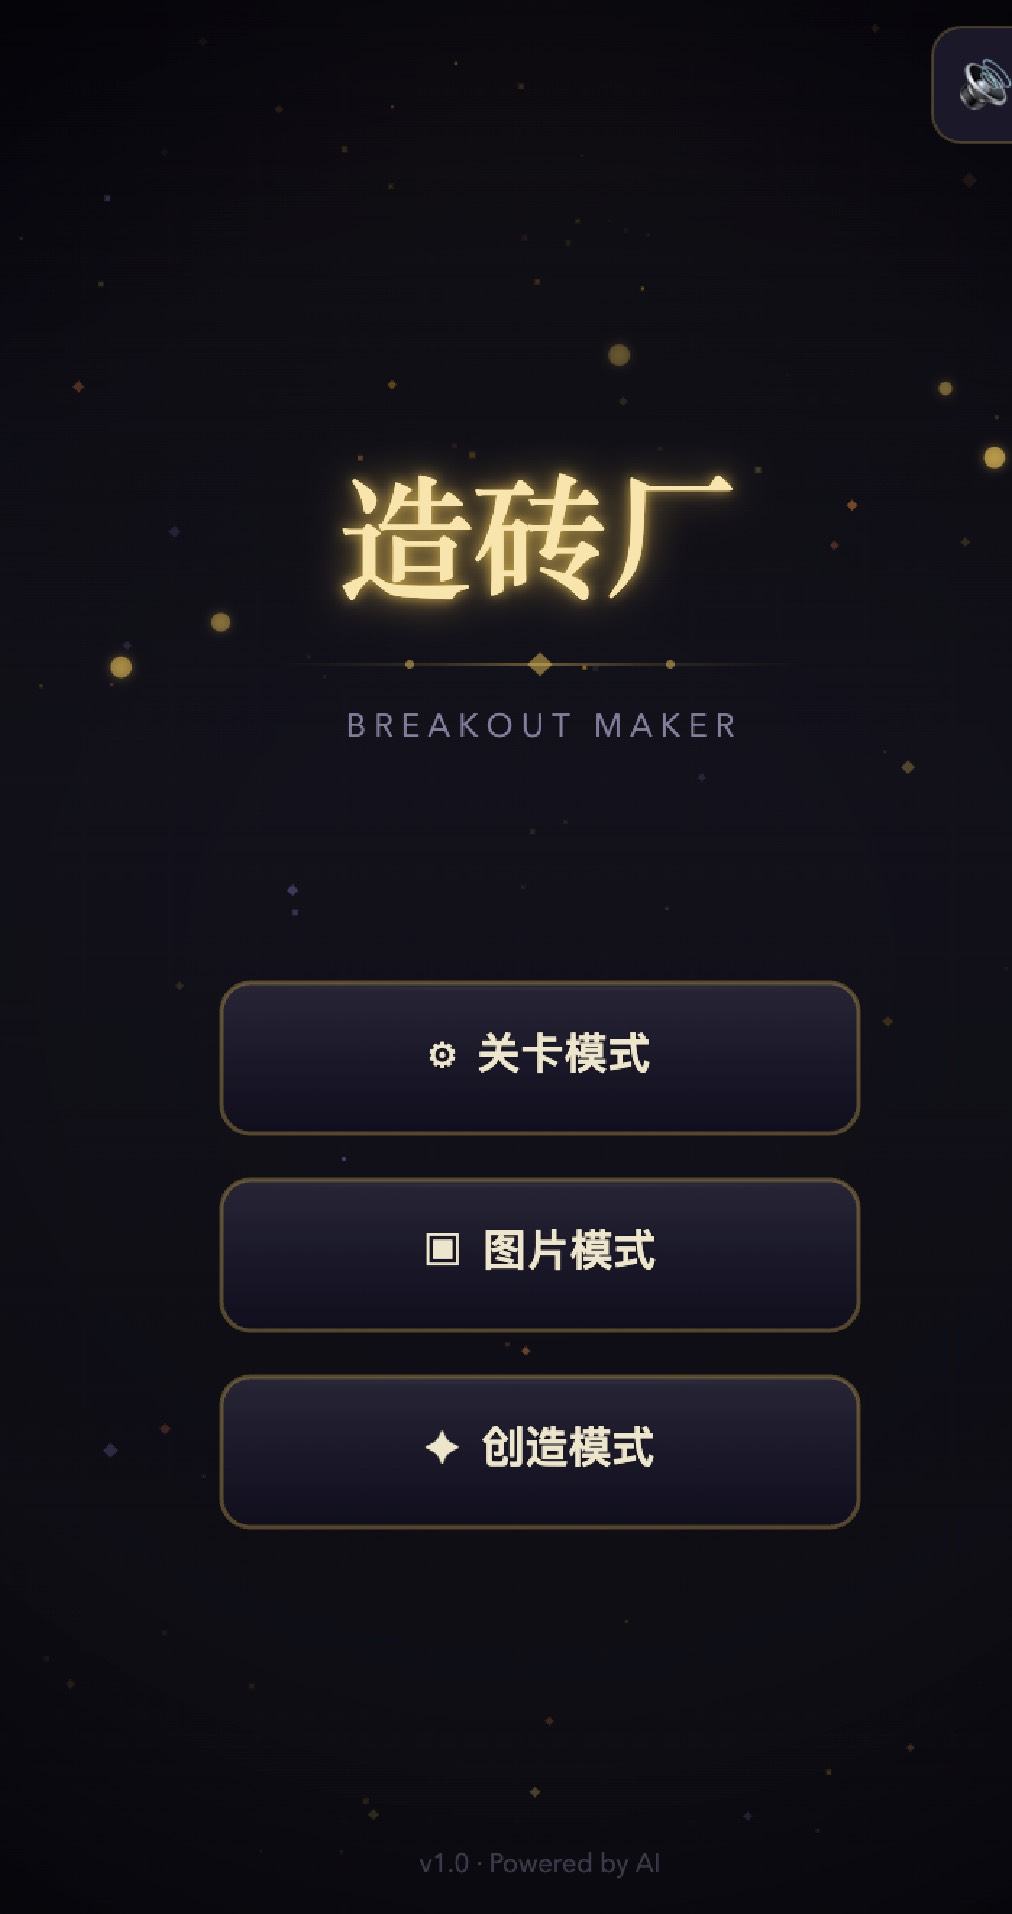
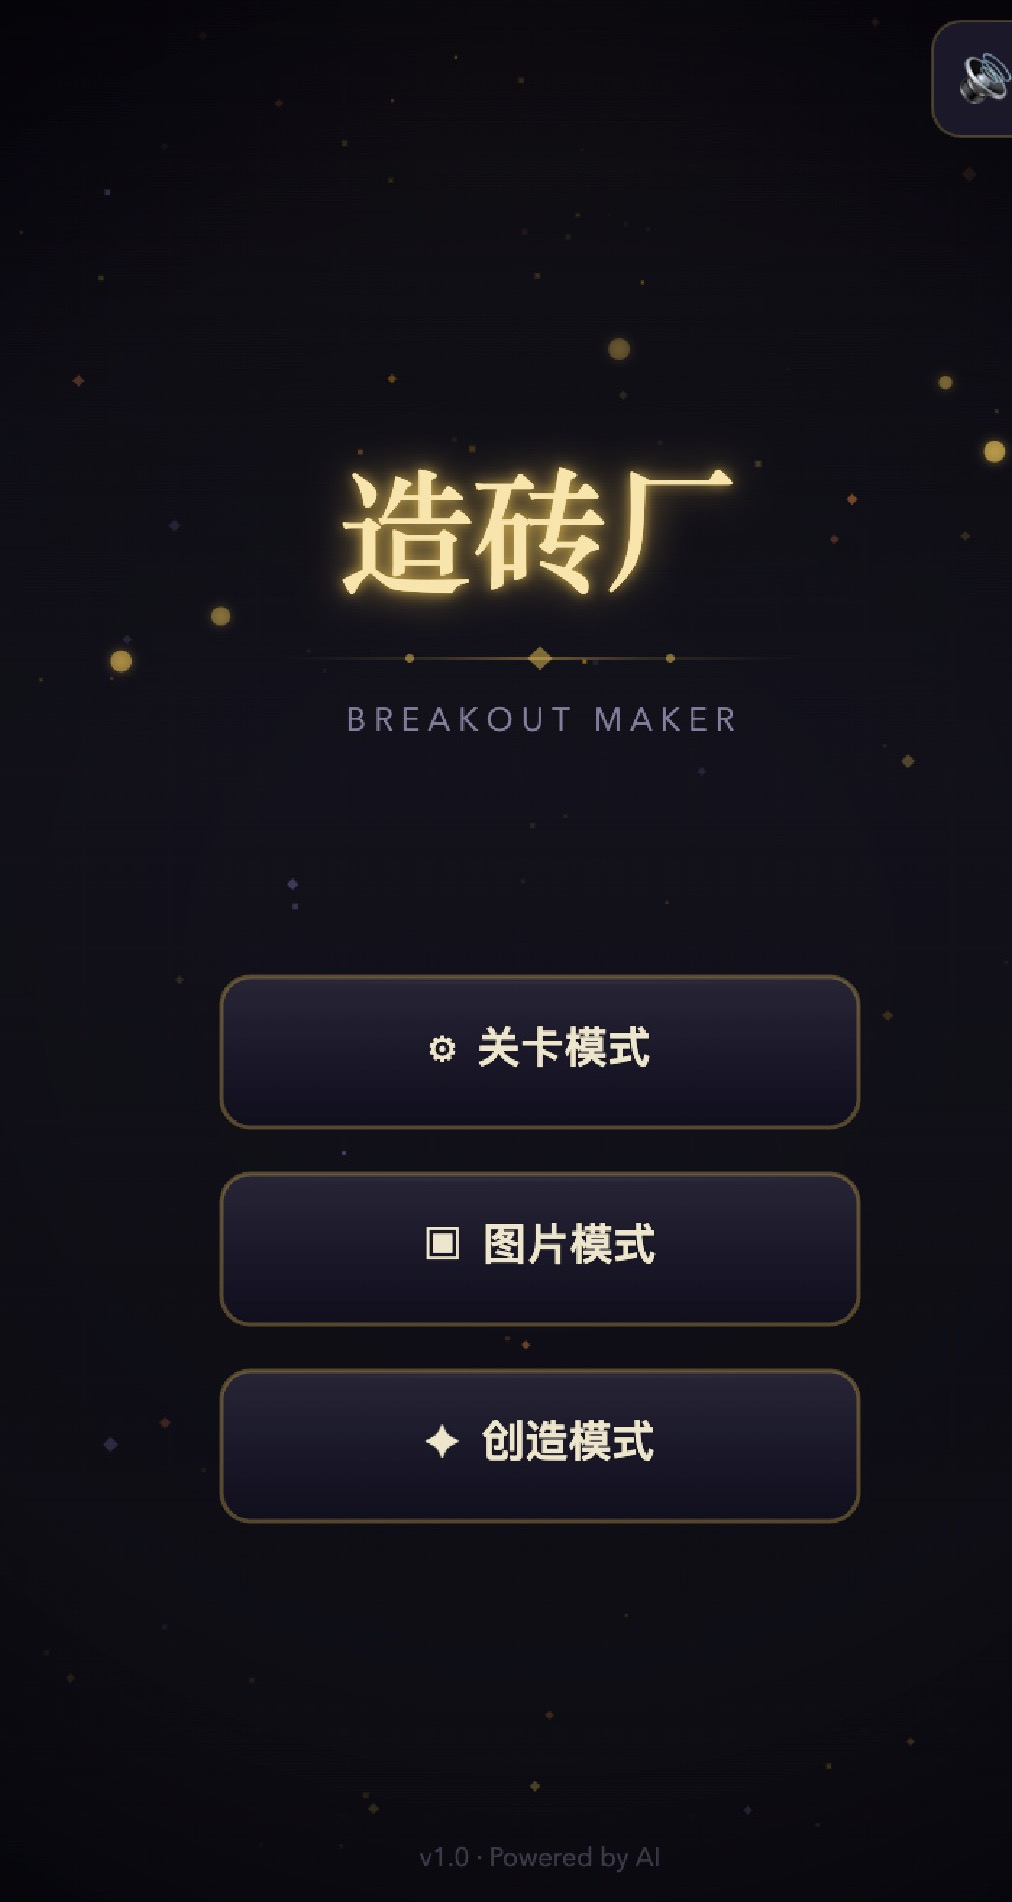
docs: add bilingual README and unify screenshot sizes (#10)
- Restructure README.md to a single bilingual file with anchor nav
  ([简体中文] | [English]); Chinese on top, English below
- Crop all 4 screenshots to a uniform 1012x1902 (centered) so they
  render at consistent proportions in the README gallery

diff --git a/README.md b/README.md
@@ -1,6 +1,6 @@
 # Breakout Maker - 造砖厂
 
-一款 AI 驱动的打砖块游戏。用自然语言描述你想要的图案，AI 为你铸造独一无二的关卡；或者上传一张图片，自动生成像素风砖块关卡。
+[简体中文](#简体中文) | [English](#english)
 
 <p align="center">
   <img src="screenshots/breakout1.jpg" width="200" />
@@ -9,7 +9,13 @@
   <img src="screenshots/breakout3.jpg" width="200" />
 </p>
 
-## Features
+---
+
+## 简体中文
+
+一款 AI 驱动的打砖块游戏。用自然语言描述你想要的图案，AI 为你铸造独一无二的关卡；或者上传一张图片，自动生成像素风砖块关卡。
+
+### Features
 
 - **关卡模式** — 13 个精心设计的内置关卡，从"初次见面"到"最终 BOSS"，逐步提升难度
 - **图片模式** — 上传任意图片，通过中值切割算法自动提取主色调，生成像素风砖块关卡
@@ -18,13 +24,13 @@
 - **连击系统** — Combo 连击倍率加分，追求高分的乐趣
 - **星界熔铸主题** — 深邃的午夜靛蓝配熔金与铜色，天文台般的视觉风格
 
-## Tech Stack
+### Tech Stack
 
 **前端** — 纯 Canvas 2D 渲染，零依赖，固定时间步长物理引擎
 
 **后端** — Express + TypeScript，调用 LLM 进行关卡生成，支持模板匹配快速路径与 AI 图像生成
 
-## Project Structure
+### Project Structure
 
 ```
 breakout-maker/
@@ -51,16 +57,16 @@ breakout-maker/
 └── test/                   # 测试
 ```
 
-## Quick Start
+### Quick Start
 
-### 1. 构建前端预览
+#### 1. 构建前端预览
 
 ```bash
 node build.js
 open preview.html
 ```
 
-### 2. 启动 AI 关卡生成服务（可选，创造模式需要）
+#### 2. 启动 AI 关卡生成服务（可选，创造模式需要）
 
 ```bash
 cd server
@@ -75,12 +81,94 @@ npm run dev
 
 服务将运行在 `http://localhost:3001`。
 
-## How to Play
+### How to Play
 
 1. **关卡模式** — 选择关卡，滑动挡板弹球消灭所有砖块
 2. **图片模式** — 上传一张图片，自动转换为像素砖块关卡来玩
 3. **创造模式** — 输入描述或点击快捷标签，AI 为你生成关卡
 
-## License
+### License
+
+MIT
+
+---
+
+## English
+
+An AI-powered brick-breaker game. Describe the pattern you want in natural language and the AI forges a one-of-a-kind level for you — or upload an image and turn it into a pixel-art brick layout automatically.
+
+### Features
+
+- **Level Mode** — 13 hand-crafted built-in levels, from "First Encounter" to "Final BOSS", with a smooth difficulty curve
+- **Image Mode** — Upload any image; median-cut color quantization extracts its dominant palette and turns it into a pixel-art brick level
+- **Create Mode** — Type a natural-language prompt (e.g. "a pig", "castle", "starry sky") and the AI generates a matching level in real time
+- **Power-Ups** — 5 random drops: split ball, multi-shot, fireball pierce, wider paddle, extra life
+- **Combo System** — Combo multipliers reward chained hits and high-score chasing
+- **Astral Forge Theme** — Deep midnight indigo with molten gold and copper accents — an observatory-grade aesthetic
+
+### Tech Stack
+
+**Frontend** — Pure Canvas 2D rendering, zero dependencies, fixed-timestep physics engine
+
+**Backend** — Express + TypeScript, calls an LLM for level generation, with a template-matching fast path and AI image generation
+
+### Project Structure
+
+```
+breakout-maker/
+├── src/                    # Game frontend source
+│   ├── entities/           # Ball, paddle, brick, particles, etc.
+│   ├── physics/            # Collision detection and physics world
+│   ├── scenes/             # Scene state machine (menu, level select, game, create mode, ...)
+│   ├── rendering/          # Canvas renderer
+│   ├── audio/              # SFX manager
+│   ├── image/              # Image-to-bricks (median-cut algorithm)
+│   ├── systems/            # Scoring system
+│   ├── input/              # Input manager (touch + mouse)
+│   ├── constants.js        # Game constants and theme palette
+│   ├── power-ups.js        # Power-up definitions
+│   └── game.js             # Main game loop
+├── levels/                 # 13 level JSON files
+├── server/                 # AI level-generation backend
+│   └── src/
+│       ├── index.ts        # Express service entry
+│       ├── generate-level.ts  # Level generation (template matching + AI)
+│       └── generate-image.ts  # AI image generation
+├── build.js                # Build script — bundles source into preview.html
+├── preview.html            # Build output, runs directly in the browser
+└── test/                   # Tests
+```
+
+### Quick Start
+
+#### 1. Build the frontend preview
+
+```bash
+node build.js
+open preview.html
+```
+
+#### 2. Start the AI level-generation service (optional, required for Create Mode)
+
+```bash
+cd server
+npm install
+
+# Configure environment variables
+cp .env.example .env
+# Edit .env and fill in your LLM_API_KEY
+
+npm run dev
+```
+
+The service runs at `http://localhost:3001`.
+
+### How to Play
+
+1. **Level Mode** — Pick a level, slide the paddle to bounce the ball and clear all the bricks
+2. **Image Mode** — Upload an image and play the auto-generated pixel-brick level
+3. **Create Mode** — Type a description or tap a quick tag and let the AI build a level for you
+
+### License
 
 MIT
